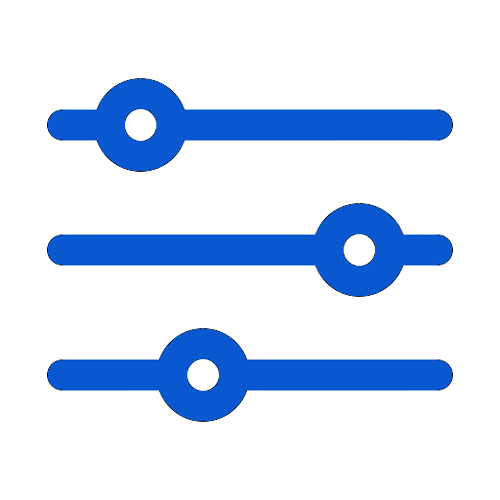
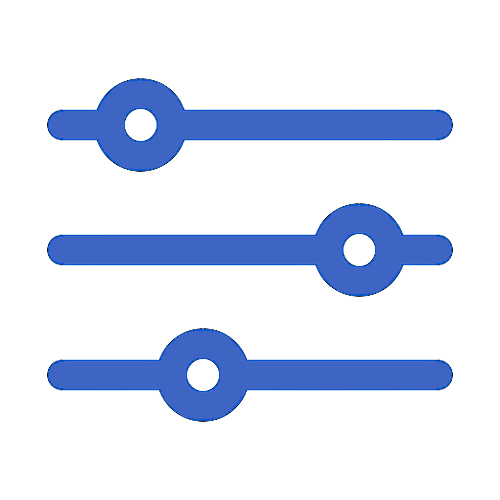
maj delete type area

Changed region(s): [[0.09, 0.15, 0.9, 0.36], [0.09, 0.39, 0.9, 0.6], [0.09, 0.66, 0.9, 0.84]]

diff --git a/src/pages/admin/AdminAreaType.jsx b/src/pages/admin/AdminAreaType.jsx
@@ -1,19 +1,31 @@
 import "./admin.scss"
-import Loader from "../../components/loader/Loader"
-import Menu from "../../layout/menu/Menu"
 import imgDelete from "../../assets/images/button/garbage.png"
 import imgUpdate from "../../assets/images/button/pencil2.png"
 import imgFilter from "../../assets/images/button/filtre.png"
+import Loader from "../../components/loader/Loader"
+import Menu from "../../layout/menu/Menu"
+import ModalConfirm from "../../components/modalconfirm/ModalConfirm"
+
 import { formatDate } from "../../js/utils.js"
 import { useEffect, useState } from "react"
 import { Link, useNavigate, useParams } from "react-router-dom"
 
 const AdminAreaType = () => {
+    const navigate = useNavigate()
+    const[confirmElement, setConfirmElement] = useState({id: "", name: ""})
+    const[displayModalConfirm, setDisplayModalConfirm] = useState(false)
+
+    //////////////////////////////////////////////////////////
+    // CHARGEMENT : APPEL DE L'API GET
+    // PARAMETRES : CHANGEMENT DANS LA ZONE DE FILTRE
+    //////////////////////////////////////////////////////////
+
     const[getAreaType, setGetAreaType] = useState(null)
-    const[param, setParam] = useState({
-        sort: "asc",
-        search: "",
-    })
+
+    // const[param, setParam] = useState({
+    //     sort: "asc",
+    //     search: "",
+    // })
     useEffect(() => {
         fetch("http://localhost:3001/api/areatype")
             .then((res) => {
@@ -22,40 +34,39 @@ const AdminAreaType = () => {
             .then((res) => {
                 setGetAreaType(res.data)
             })
-    },[])
+    },[displayModalConfirm])
 
+    //////////////////////////////////////////////////////////
+    // DELETE : CONFIRMATION A L'AIDE DE LA FENETRE MODALE CONFIRM
+    // APPEL DE L'API DELETE
+    //////////////////////////////////////////////////////////
 
+    const libelle = "Etes-vous sûr de vouloir supprimer le type ?"
 
-
-
-    const[displayModalDelete, setDisplayModalDelete] = useState(false)
-
-    const handleShowModalClick = (() => {
-        setDisplayModalDelete(true)
+    const handleShowModalClick = ((id, name) => {
+        setConfirmElement({id: id, name: name})       
+        setDisplayModalConfirm(true) 
     })
 
-    const libelle = "Etes-vous sûr de vouloir supprimer le Coworking ?"
     // const token = localStorage.getItem("jwt")
-    const handleCancelledClick = (isValidated) => {
+    const handleCancelledClick = (isValidated) => { 
         if (isValidated) {
-        //     fetch("http://localhost:3001/api/coworking/" + id,{
-        //         method: "DELETE",
-        //         // headers: {
-        //         //     authorization: `Bearer ${token}`,
-        //         // },
-        //     })
-        //     .then((res) => {
-        //         return res.json()          
-        //     })
-        //     .then((res) => {
-        //         console.log(res)
-        //         navigate("/coworking")
-        //     })
-        } else {
-            setDisplayModalDelete(false)
-
+            fetch("http://localhost:3001/api/areatype/" + confirmElement.id,{
+                method: "DELETE",
+                // headers: {
+                //     authorization: `Bearer ${token}`,
+                // },
+            })
+            .then((res) => {
+                return res.json()          
+            })
         }
+        setDisplayModalConfirm(false)
     }
+
+    //////////////////////////////////////////////////////////
+    // 
+    //////////////////////////////////////////////////////////
 
     const handleSubmit = () => {
         console.log("Création")
@@ -76,6 +87,7 @@ const AdminAreaType = () => {
                         :
                         (
                             <>
+                            {displayModalConfirm && <ModalConfirm callFunction={handleCancelledClick} libelle={libelle} name={confirmElement.name}/>}
                             <div className="admin-titre d-flex justify-content-between align-items-center">
                                 <h2>Table 'area_type'</h2>
                                 <Link className="btn-admin-add" to={"/"} href="#">Ajouter un élément</Link>                                
@@ -87,7 +99,7 @@ const AdminAreaType = () => {
                                     <button className="navbar-toggler btn-admin" type="button" data-bs-toggle="offcanvas" data-bs-target="#offcanvasNavbar" aria-controls="offcanvasNavbar" aria-label="Toggle navigation">
                                         <img src={imgFilter} />
                                     </button>
-                                    <div className="offcanvas offcanvas-end" tabindex="-1" id="offcanvasNavbar" aria-labelledby="offcanvasNavbarLabel">
+                                    <div className="offcanvas offcanvas-end" tabIndex="-1" id="offcanvasNavbar" aria-labelledby="offcanvasNavbarLabel">
                                         <div className="offcanvas-header">
                                             <h5 className="offcanvas-title" id="offcanvasNavbarLabel">Offcanvas</h5>
                                             <button type="button" className="btn-close" data-bs-dismiss="offcanvas" aria-label="Close"></button>
@@ -141,7 +153,7 @@ const AdminAreaType = () => {
                                         </div>
                                         <div className="col-12 col-lg-2 justify-content-end">
                                             <Link className="btn-admin" to={"/" + element.id} href="#"><img src={imgUpdate} /></Link>
-                                            <Link className="btn-admin" onClick={handleShowModalClick}><img src={imgDelete} /></Link>
+                                            <Link className="btn-admin" onClick={() => handleShowModalClick(element.id, element.name)}><img src={imgDelete} /></Link>
                                         </div>
                                     </div>
                                 )

diff --git a/src/styles/base/partials/_buttons.scss b/src/styles/base/partials/_buttons.scss
@@ -45,19 +45,35 @@
 }
 
 .btn-connect {
-    // background-color: white;
-    border: 0 solid $menuBtnBorderColor;
+    background-color: white;
+    border: 1px solid $menuBtnBorderColor;
     border-radius: 50%;
     margin: 3px;
-    // padding: 0;
+    padding: 5px;
     cursor: pointer;
     transition: all 0.2s ease-out;
 
     img {
-        height: 40px;;
+        height: 30px;
     }
 
     &:hover {
         background-color: $menuBtnBgColorLight;
     }                    
+}
+
+.btn-confirm {
+    font-size: 1.2rem;
+    padding: 5px 15px;
+    margin: 20px 2px;
+    color: white;
+    background-color: $secondaryBgColorLight1;
+    border: 1px solid $secondaryBgColorLight1;
+    border-radius: 5px;
+    transition: all 0.2s ease-out;
+
+    &:hover {
+        color: $secondaryBgColorLight1;
+        background-color: white;
+    }
 }

diff --git a/src/components/modalconfirm/modalConfirm.scss b/src/components/modalconfirm/modalConfirm.scss
@@ -1,0 +1,31 @@
+@import "../../styles/utils/utils";
+
+.modalConfirm {
+    width: 100%;
+    height: 100%;
+    visibility: visible;
+    position: fixed;
+    top: 0;
+    left:0;
+    -webkit-backdrop-filter: blur(15px); /* assure la compatibilité avec safari */
+    backdrop-filter: brightness(50%);
+    z-index: 1;
+
+    .validBox {
+        font-family: "Poppins", Arial, Helvetica, sans-serif;
+        background-color: white;
+        border-radius: 10px;
+        padding: 60px;
+        text-align: center;
+        position: absolute;
+        top: 40%;
+        left: 50%;
+        transform: translate(-50%);
+
+        h2 {
+            font-size: 2.5rem;
+            color: $baseFontColorLight1;
+            margin-bottom: 10px;
+        }
+    }
+}

diff --git a/src/components/modalconfirm/ModalConfirm.jsx b/src/components/modalconfirm/ModalConfirm.jsx
@@ -1,0 +1,16 @@
+import "./modalConfirm.scss"
+
+const ModalConfirm = (props) => {
+    return (
+        <div className="modalConfirm">
+            <div className="validBox">
+                <p>{props.libelle}</p>
+                <h2>{props.name}</h2>
+                <button className="btn-confirm" onClick={() => props.callFunction(true)}>Oui</button>
+                <button className="btn-confirm" onClick={() => props.callFunction(false)}>Annuler</button>                        
+            </div>
+        </div>
+    )
+}
+
+export default ModalConfirm

diff --git a/src/layout/menu/Menu.jsx b/src/layout/menu/Menu.jsx
@@ -41,7 +41,7 @@ const Menu = () => {
                     </div>
                 </nav>
                 <button className="btn-connect">
-                    <img src={imgLogin} />
+                    <img src={imgLogin} alt="Login" />
                 </button>
             </div>
         </section>

diff --git a/src/styles/utils/partials/_variables.scss b/src/styles/utils/partials/_variables.scss
@@ -24,7 +24,7 @@ $menuBgColor: #f1f1f1;
 
 $menuBtnFontColor: white;
 $menuBtnFontColor2: #3e64c4;
-$menuBtnBgColor: #3e64c4;
+$menuBtnBgColor: rgb(62, 100, 196);
 $menuBtnBgColorLight: #d0d9f0;
 $menuBtnBorderColor: #3e64c4;
 

diff --git a/src/pages/admin/admin.scss b/src/pages/admin/admin.scss
@@ -2,6 +2,7 @@
 
 .admin {
     font-family: "Poppins", Arial, Helvetica, sans-serif;
+    margin-bottom: 40px;
 
     h1 {
         margin: 40px 0;
